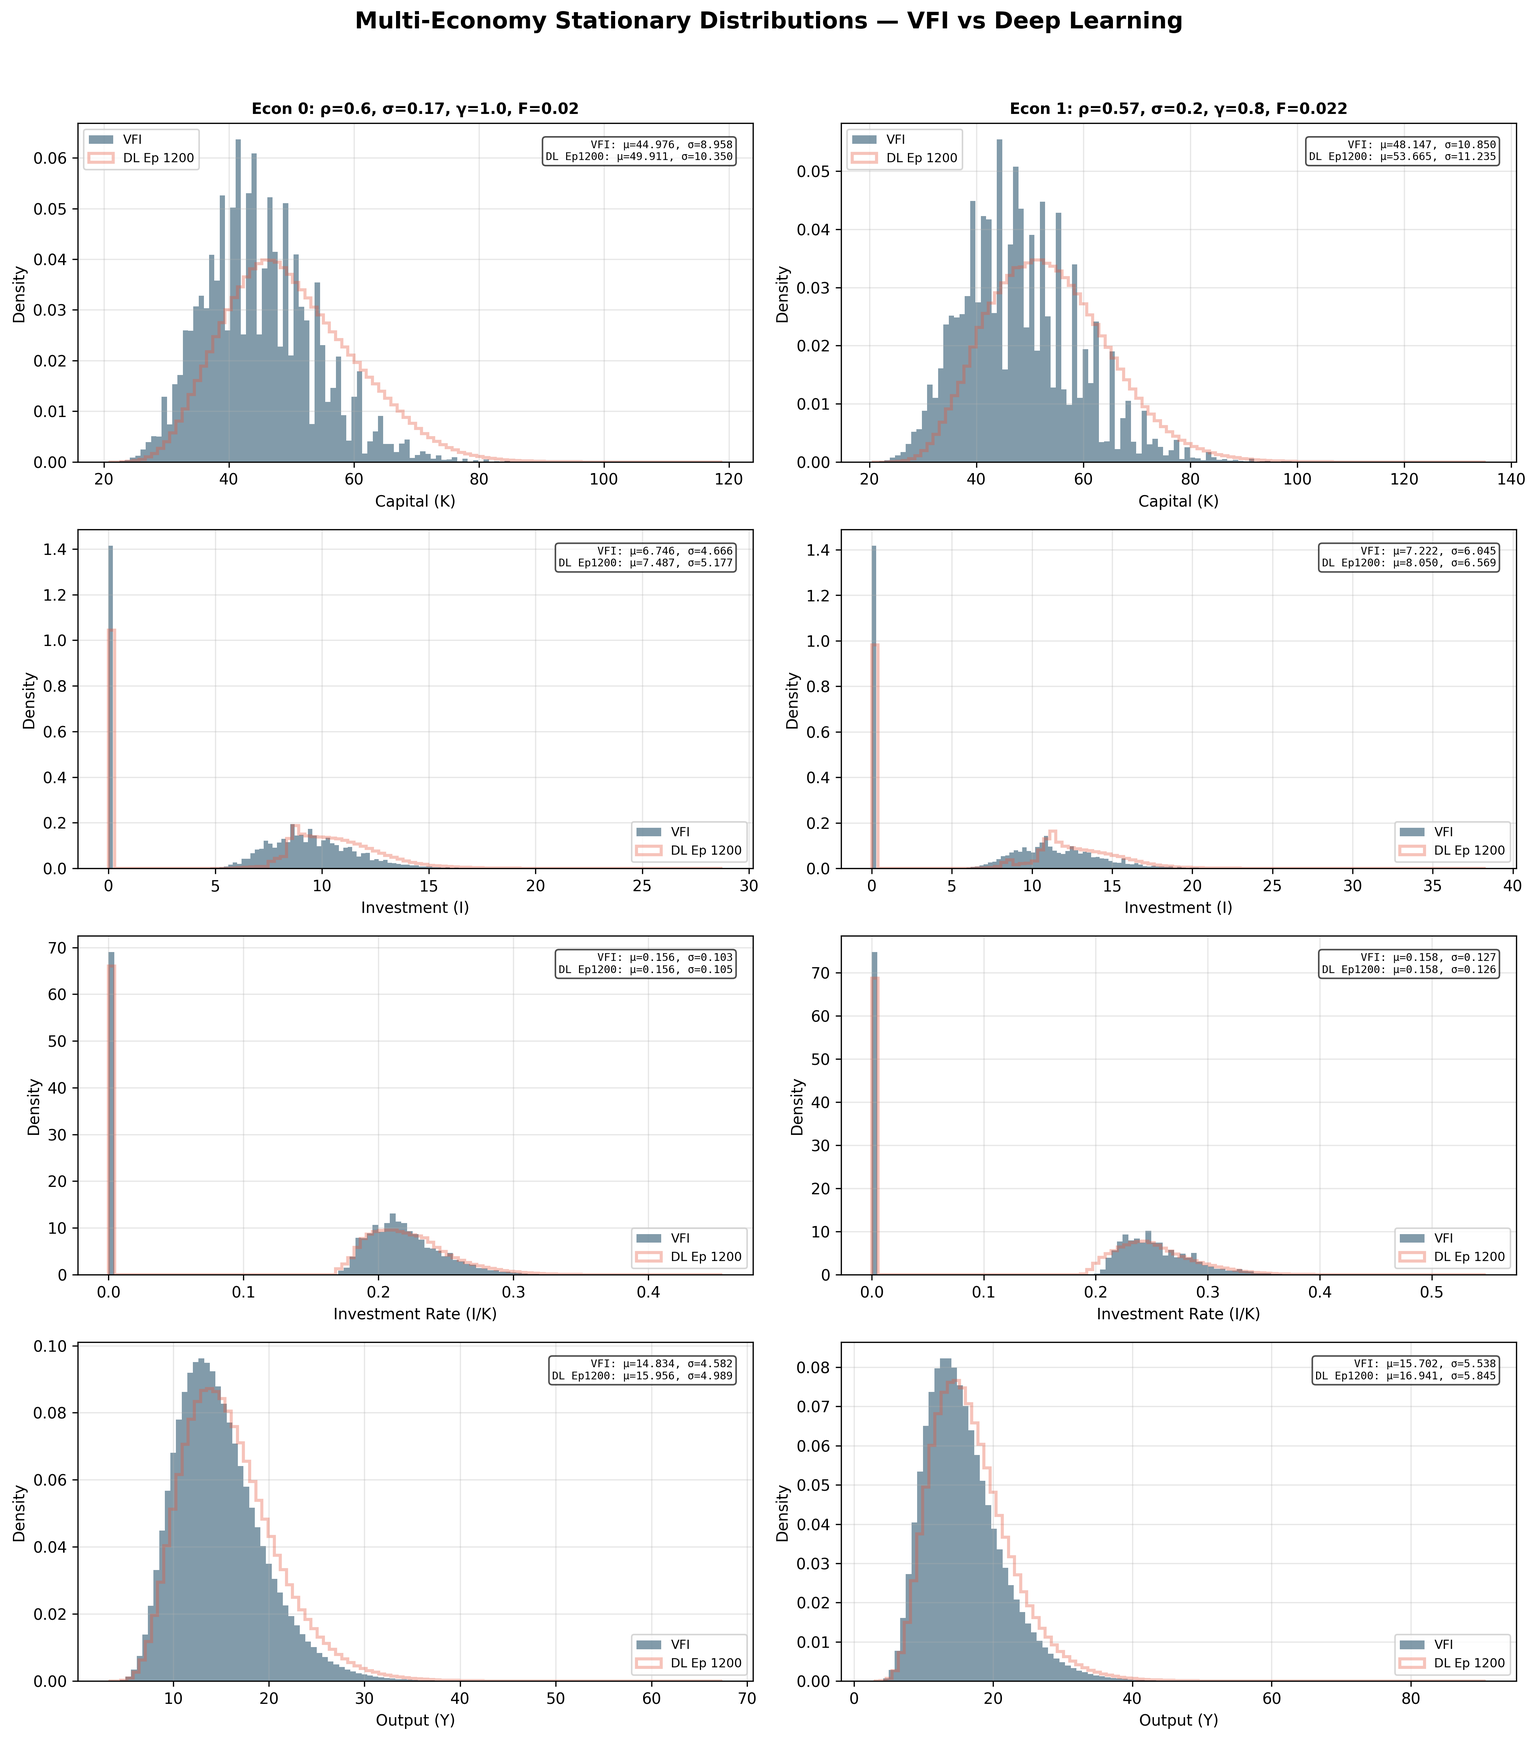
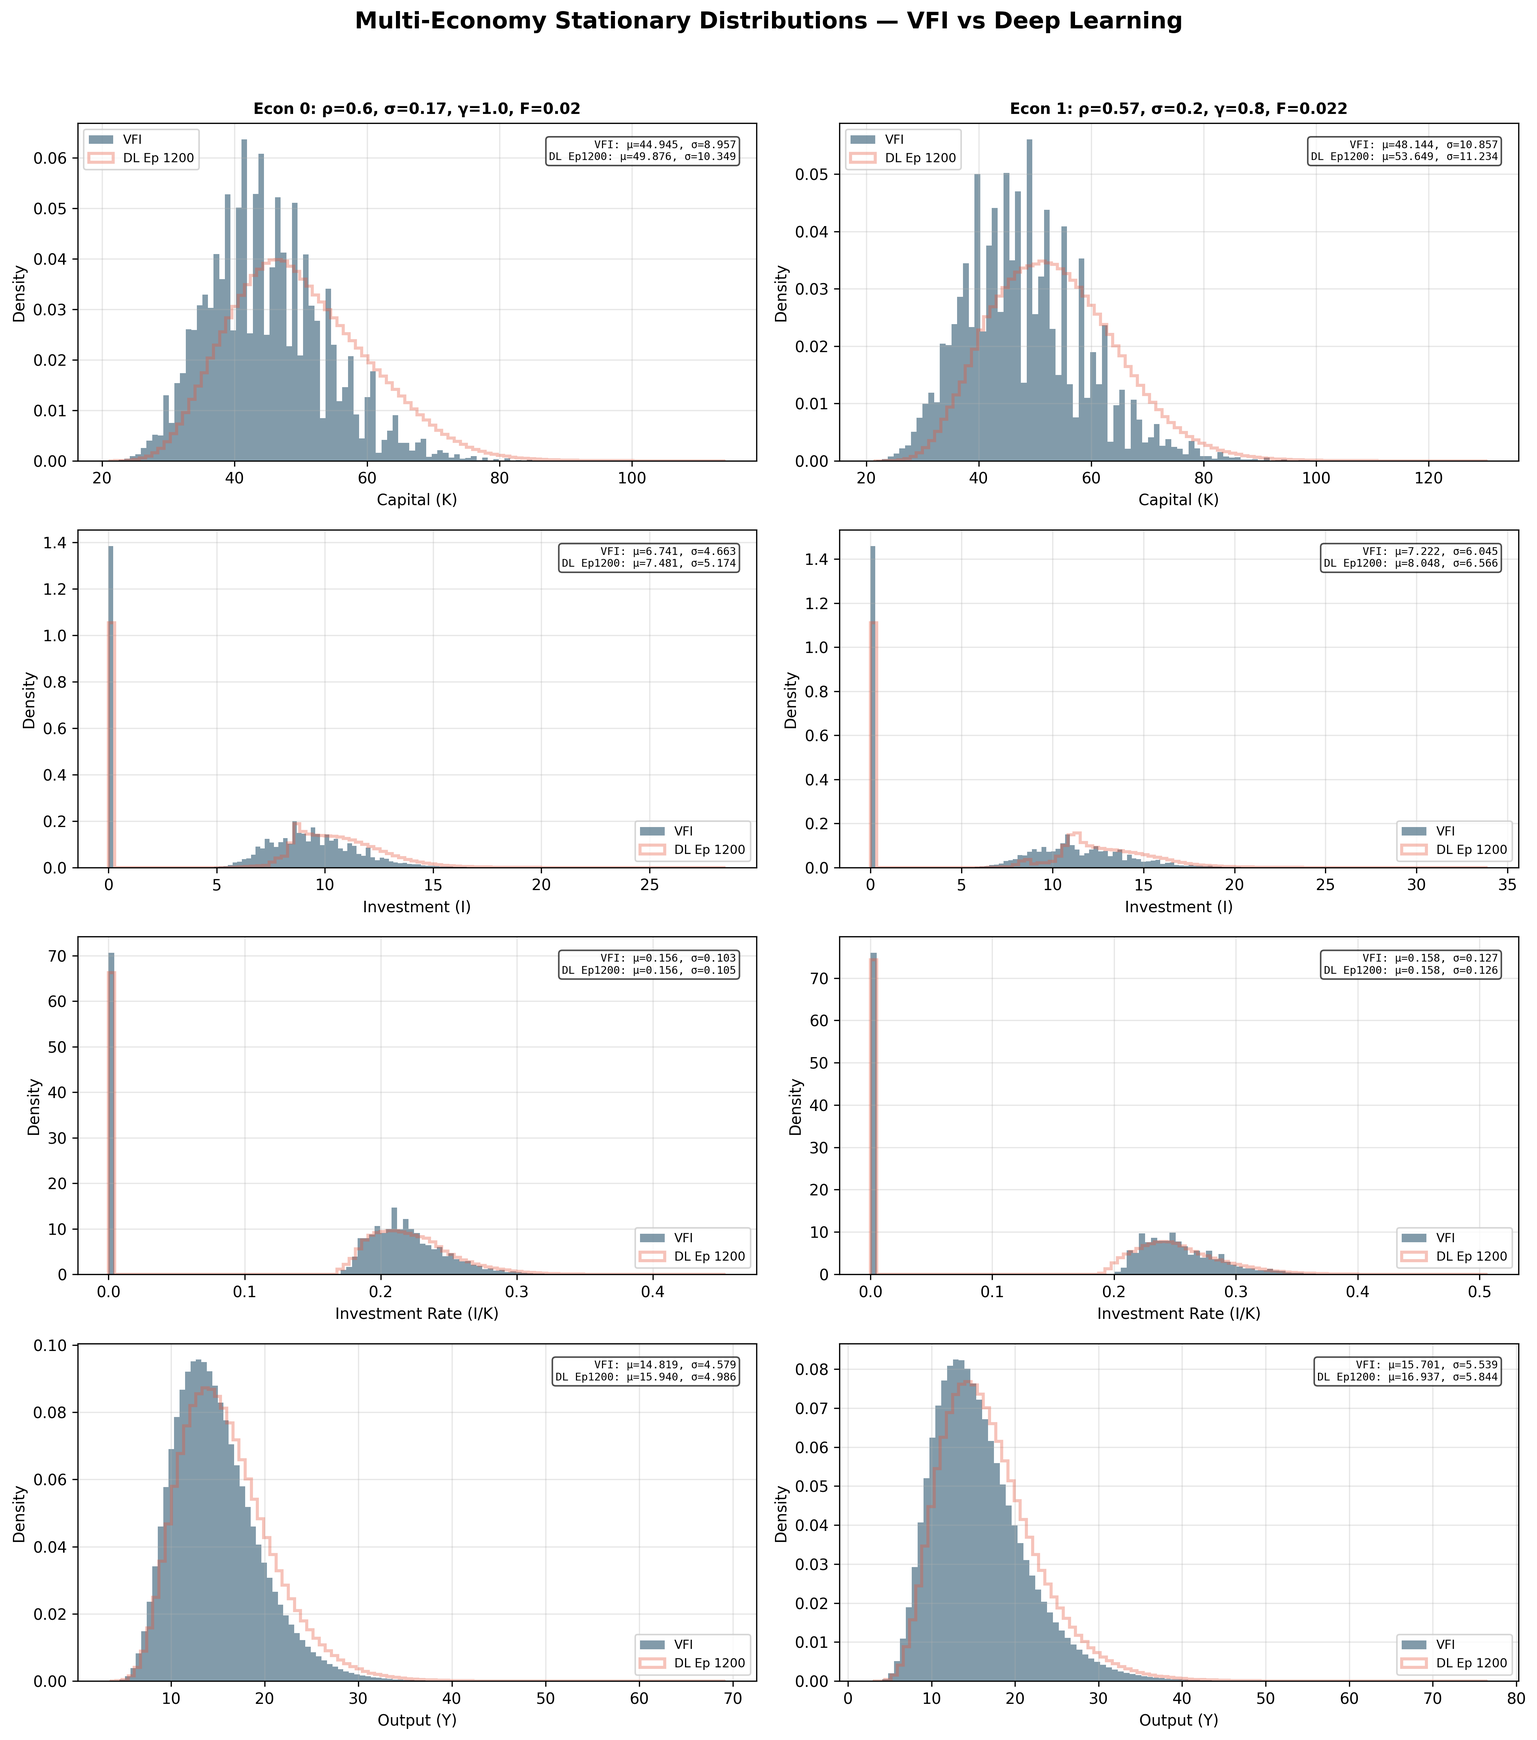
modify

diff --git a/src/econ_models/dl_dist/risky_final.py b/src/econ_models/dl_dist/risky_final.py
@@ -249,8 +249,8 @@ class RiskyModelDL_FINAL:
         self.target_default_policy_net.set_weights(
             self.default_policy_net.get_weights()
         )
-        # self.capital_policy_net.load_weights(str(weight_paths["capital"]))
-        # self.debt_policy_net.load_weights(str(weight_paths["debt"]))
+        self.capital_policy_net.load_weights(str(weight_paths["capital"]))
+        self.debt_policy_net.load_weights(str(weight_paths["debt"]))
 
         print(f"[pretrained] Loaded from {ckpt_dir} (epoch {epoch}), targets synced.")
 
@@ -301,28 +301,33 @@ class RiskyModelDL_FINAL:
 
         # --- Epoch-scheduled annealing parameters ---
         # Each schedule is a tuple: (w_start, w_end, epoch_start, epoch_end)
-        def _sched(base_name: str, default_val: float):
+        def _sched(w_start_attr, w_end_attr, ep_start_attr, ep_end_attr, w_default):
             """Read annealing schedule from config with defaults."""
-            w_s = getattr(self.config, f"{base_name}_weight_start", None)
-            w_e = getattr(self.config, f"{base_name}_weight_end", None)
+            w_s = getattr(self.config, w_start_attr, None)
+            w_e = getattr(self.config, w_end_attr, None)
             return (
-                w_s if w_s is not None else default_val,
-                w_e if w_e is not None else default_val,
-                getattr(self.config, f"{base_name}_start_epoch", None) or 0,
-                getattr(self.config, f"{base_name}_end_epoch", None) or 1,
+                w_s if w_s is not None else w_default,
+                w_e if w_e is not None else w_default,
+                getattr(self.config, ep_start_attr, None) or 0,
+                getattr(self.config, ep_end_attr, None) or 1,
             )
 
-        _eq_fb_w = (
-            self.config.equity_fb_weight
-            if self.config.equity_fb_weight is not None
-            else 1.0
-        )
-
-        self._sched_eq_fb = _sched('equity_fb', _eq_fb_w)
-        self._sched_cont_leak = _sched('continuous_leak', 1.0)
-        self._sched_ent_cap = _sched('entropy_capital', 0.0)
-        self._sched_ent_debt = _sched('entropy_debt', 0.0)
-        self._sched_ent_def = _sched('entropy_default', 0.0)
+        _eq_fb_w = self.config.equity_fb_weight if self.config.equity_fb_weight is not None else 1.0
+        self._sched_eq_fb = _sched(
+            'equity_fb_weight_start', 'equity_fb_weight_end',
+            'equity_fb_start_epoch', 'equity_fb_end_epoch', _eq_fb_w)
+        self._sched_cont_leak = _sched(
+            'continuous_leak_weight_start', 'continuous_leak_weight_end',
+            'continuous_leak_start_epoch', 'continuous_leak_end_epoch', 1.0)
+        self._sched_ent_cap = _sched(
+            'entropy_capital_weight_start', 'entropy_capital_weight_end',
+            'entropy_capital_start_epoch', 'entropy_capital_end_epoch', 0.0)
+        self._sched_ent_debt = _sched(
+            'entropy_debt_weight_start', 'entropy_debt_weight_end',
+            'entropy_debt_start_epoch', 'entropy_debt_end_epoch', 0.0)
+        self._sched_ent_def = _sched(
+            'entropy_default_weight_start', 'entropy_default_weight_end',
+            'entropy_default_start_epoch', 'entropy_default_end_epoch', 0.0)
 
         # tf.Variables so XLA-compiled _train_step_impl sees updates each epoch
         self.equity_fb_weight = tf.Variable(
@@ -541,19 +546,27 @@ class RiskyModelDL_FINAL:
             decay: Averaging coefficient in ``[0, 1]``.  Higher values
                 retain more of the existing target network.
         """
-        pairs = [
-            (self.target_value_net, self.value_net),
-            (self.target_continuous_net, self.continuous_net),
-            (self.target_default_policy_net, self.default_policy_net),
-        ]
-        for target_net, source_net in pairs:
-            for target_var, source_var in zip(
-                target_net.trainable_variables,
-                source_net.trainable_variables,
-            ):
-                target_var.assign(
-                    decay * target_var + (1.0 - decay) * source_var
-                )
+        for target_var, source_var in zip(
+            self.target_value_net.trainable_variables,
+            self.value_net.trainable_variables,
+        ):
+            target_var.assign(
+                decay * target_var + (1.0 - decay) * source_var
+            )
+        for target_var, source_var in zip(
+            self.target_continuous_net.trainable_variables,
+            self.continuous_net.trainable_variables,
+        ):
+            target_var.assign(
+                decay * target_var + (1.0 - decay) * source_var
+            )
+        for target_var, source_var in zip(
+            self.target_default_policy_net.trainable_variables,
+            self.default_policy_net.trainable_variables,
+        ):
+            target_var.assign(
+                decay * target_var + (1.0 - decay) * source_var
+            )
 
     def _build_summary_writer(self) -> None:
         """Create TensorBoard summary writer.
@@ -806,55 +819,6 @@ class RiskyModelDL_FINAL:
     # Dividend Computation
     # =========================================================================
 
-    def _compute_dividend_common(
-        self,
-        k: tf.Tensor,
-        b: tf.Tensor,
-        z: tf.Tensor,
-        b_prime: tf.Tensor,
-        q: tf.Tensor,
-        equity_issuance: tf.Tensor,
-        issuance_gate_prob: tf.Tensor,
-        eta0: tf.Tensor,
-        eta1: tf.Tensor,
-        investment: tf.Tensor = None,
-        adj_cost: tf.Tensor = None,
-    ) -> Tuple[tf.Tensor, tf.Tensor]:
-        """Compute dividend and raw payout using shared logic.
-
-        Args:
-            k: Current capital.
-            b: Current debt.
-            z: Current productivity.
-            b_prime: Next period debt.
-            q: Bond price.
-            equity_issuance: Effective equity issuance.
-            issuance_gate_prob: Gate probability.
-            eta0: Issuance cost parameter.
-            eta1: Issuance cost parameter.
-            investment: Investment amount (optional, defaults to 0).
-            adj_cost: Adjustment cost (optional, defaults to 0).
-
-        Returns:
-            Tuple of (dividend, payout).
-        """
-        if investment is None:
-            investment = tf.zeros_like(k)
-        if adj_cost is None:
-            adj_cost = tf.zeros_like(k)
-
-        revenue = self.one_minus_tax * ProductionFunctions.cobb_douglas(
-            k, z, self.params
-        )
-        debt_inflow, tax_shield = DebtFlowCalculator.calculate(
-            b_prime, q, self.params
-        )
-
-        payout = revenue + debt_inflow + tax_shield - adj_cost - investment - b
-        issuance_cost = issuance_gate_prob * (eta0 + eta1 * equity_issuance)
-        dividend = payout - issuance_cost
-        return dividend, payout
-
     def _compute_dividend(
         self,
         k: tf.Tensor,
@@ -872,33 +836,38 @@ class RiskyModelDL_FINAL:
     ) -> Tuple[tf.Tensor, tf.Tensor]:
         """Compute dividend (cash flow) for the risky model (invest branch).
 
+        Issuance cost uses the learned gate probability instead of the
+        hard indicator: ``gate_prob * (eta0 + eta1 * e)``.
+
         Args:
-            k: Current capital.
-            b: Current debt.
-            z: Productivity shock.
-            k_prime: Next period capital.
-            b_prime: Next period debt.
-            q: Bond price.
             equity_issuance: Effective equity issuance (raw * gate_prob).
             issuance_gate_prob: Issuance gate probability ∈ [0, 1].
-            convex: Per-sample adjustment cost parameter.
-            fixed: Per-sample adjustment cost parameter.
-            eta0: Per-sample issuance cost parameter.
-            eta1: Per-sample issuance cost parameter.
+            convex, fixed: Per-sample adjustment cost parameters.
+            eta0, eta1: Per-sample issuance cost parameters.
 
         Returns:
-            Tuple of (dividend, payout).
+            (dividend, payout) — *payout* is the raw operating payout
+            **before** equity issuance and its cost.  Both shape ``(batch, 1)``.
         """
-        investment = ProductionFunctions.calculate_investment(
-            k, k_prime, self.params
-        )
+        # Production: (1-tau) * Z * K^theta
+        revenue = self.one_minus_tax * ProductionFunctions.cobb_douglas(k, z, self.params)
+
+        # Investment: I = K' - (1-delta)*K
+        investment = ProductionFunctions.calculate_investment(k, k_prime, self.params)
+
+        # Adjustment cost (dist version: takes convex/fixed as tensors)
         adj_cost, _ = AdjustmentCostCalculator.calculate_dist(
             investment, k, convex, fixed,
         )
-        return self._compute_dividend_common(
-            k, b, z, b_prime, q, equity_issuance, issuance_gate_prob,
-            eta0, eta1, investment, adj_cost
-        )
+
+        # Debt flow
+        debt_inflow, tax_shield = DebtFlowCalculator.calculate(b_prime, q, self.params)
+
+        # Raw payout before equity issuance
+        payout = revenue + debt_inflow + tax_shield - adj_cost - investment - b
+        issuance_cost = issuance_gate_prob * (eta0 + eta1 * equity_issuance)
+        dividend = payout - issuance_cost
+        return dividend, payout
 
     def _compute_dividend_no_invest(
         self,
@@ -912,54 +881,36 @@ class RiskyModelDL_FINAL:
         eta0: tf.Tensor,
         eta1: tf.Tensor,
     ) -> Tuple[tf.Tensor, tf.Tensor]:
-        """Compute dividend when NOT investing.
+        """Compute dividend when NOT investing (no adjustment cost, no investment).
+        k' = (1-delta)*k, investment = 0.
+
+        Issuance cost uses the learned gate probability instead of the
+        hard indicator: ``gate_prob * (eta0 + eta1 * e)``.
 
         Args:
-           k: Current capital.
-           b: Current debt.
-           z: Productivity shock.
-           b_prime: Next period debt.
-           q: Bond price.
-           equity_issuance: Effective equity issuance.
-           issuance_gate_prob: Issuance gate probability.
-           eta0: Issuance cost parameter.
-           eta1: Issuance cost parameter.
+            equity_issuance: Effective equity issuance (raw * gate_prob).
+            issuance_gate_prob: Issuance gate probability ∈ [0, 1].
+            eta0, eta1: Per-sample issuance cost parameters.
 
         Returns:
-            Tuple of (dividend, payout).
+            (dividend, payout) — *payout* is the raw operating payout
+            **before** equity issuance and its cost.  Both shape ``(batch, 1)``.
         """
-        return self._compute_dividend_common(
-            k, b, z, b_prime, q, equity_issuance, issuance_gate_prob,
-            eta0, eta1
-        )
+        # Production: (1-tau) * Z * K^theta
+        revenue = self.one_minus_tax * ProductionFunctions.cobb_douglas(k, z, self.params)
+
+        # Debt flow
+        debt_inflow, tax_shield = DebtFlowCalculator.calculate(b_prime, q, self.params)
+
+        # Raw payout (no investment, no adjustment cost)
+        payout = revenue + debt_inflow + tax_shield - b
+        issuance_cost = issuance_gate_prob * (eta0 + eta1 * equity_issuance)
+        dividend = payout - issuance_cost
+        return dividend, payout
 
     # =========================================================================
     # Training Step
     # =========================================================================
-
-
-    def _compute_equity_issuance_outputs(
-        self,
-        network: tf.keras.Model,
-        inputs: tf.Tensor,
-        training: bool = False,
-    ) -> Tuple[tf.Tensor, tf.Tensor]:
-        """Compute equity issuance values and gate probabilities.
-
-        Args:
-            network: Equity issuance network model.
-            inputs: Network inputs.
-            training: Training flag.
-
-        Returns:
-            Tuple of (equity_issuance, issuance_gate_prob).
-        """
-        logits = network(inputs, training=training)
-        equity_issuance = tf.nn.relu(logits)
-        gate_soft = tf.math.sigmoid(logits)
-        gate_hard = tf.cast(gate_soft > self.half, TENSORFLOW_DTYPE)
-        gate_prob = gate_soft + tf.stop_gradient(gate_hard - gate_soft)
-        return equity_issuance, gate_prob
 
     def _train_step_impl(
         self,
@@ -1025,16 +976,17 @@ class RiskyModelDL_FINAL:
         )
 
         # Equity issuance for label computation (frozen, per-path, STE gate)
-        equity_issuance_inf_invest, issuance_gate_prob_inf_invest = (
-            self._compute_equity_issuance_outputs(
-                self.equity_issuance_net_invest, inputs, training=False
-            )
-        )
-        equity_issuance_inf_noinvest, issuance_gate_prob_inf_noinvest = (
-            self._compute_equity_issuance_outputs(
-                self.equity_issuance_net_noinvest, inputs, training=False
-            )
-        )
+        issuance_logit_inf_invest = self.equity_issuance_net_invest(inputs, training=False)
+        equity_issuance_inf_invest = tf.nn.relu(issuance_logit_inf_invest)
+        issuance_gate_soft_inf_invest = tf.math.sigmoid(issuance_logit_inf_invest)
+        issuance_gate_hard_inf_invest = tf.cast(issuance_gate_soft_inf_invest > self.half, TENSORFLOW_DTYPE)
+        issuance_gate_prob_inf_invest = issuance_gate_soft_inf_invest + tf.stop_gradient(issuance_gate_hard_inf_invest - issuance_gate_soft_inf_invest)
+
+        issuance_logit_inf_noinvest = self.equity_issuance_net_noinvest(inputs, training=False)
+        equity_issuance_inf_noinvest = tf.nn.relu(issuance_logit_inf_noinvest)
+        issuance_gate_soft_inf_noinvest = tf.math.sigmoid(issuance_logit_inf_noinvest)
+        issuance_gate_hard_inf_noinvest = tf.cast(issuance_gate_soft_inf_noinvest > self.half, TENSORFLOW_DTYPE)
+        issuance_gate_prob_inf_noinvest = issuance_gate_soft_inf_noinvest + tf.stop_gradient(issuance_gate_hard_inf_noinvest - issuance_gate_soft_inf_noinvest)
 
         # Bond prices (expensive MC — computed ONCE, shared debt)
         q_invest = self.estimate_bond_price(
@@ -1141,17 +1093,19 @@ class RiskyModelDL_FINAL:
             b_sigmoid = self.debt_policy_net(inputs, training=True)
             b_prime = self.normalizer_states.denormalize_debt(b_sigmoid)
 
-            # Equity issuance
-            equity_issuance_invest, issuance_gate_prob_invest = (
-                self._compute_equity_issuance_outputs(
-                    self.equity_issuance_net_invest, inputs, training=True
-                )
-            )
-            equity_issuance_noinvest, issuance_gate_prob_noinvest = (
-                self._compute_equity_issuance_outputs(
-                    self.equity_issuance_net_noinvest, inputs, training=True
-                )
-            )
+            # Equity issuance (invest path, live, gated, STE)
+            issuance_logit_invest = self.equity_issuance_net_invest(inputs, training=True)
+            equity_issuance_invest = tf.nn.relu(issuance_logit_invest)
+            issuance_gate_soft_invest = tf.math.sigmoid(issuance_logit_invest)
+            issuance_gate_hard_invest = tf.cast(issuance_gate_soft_invest > self.half, TENSORFLOW_DTYPE)
+            issuance_gate_prob_invest = issuance_gate_soft_invest + tf.stop_gradient(issuance_gate_hard_invest - issuance_gate_soft_invest)
+
+            # Equity issuance (no-invest path, live, gated, STE)
+            issuance_logit_noinvest = self.equity_issuance_net_noinvest(inputs, training=True)
+            equity_issuance_noinvest = tf.nn.relu(issuance_logit_noinvest)
+            issuance_gate_soft_noinvest = tf.math.sigmoid(issuance_logit_noinvest)
+            issuance_gate_hard_noinvest = tf.cast(issuance_gate_soft_noinvest > self.half, TENSORFLOW_DTYPE)
+            issuance_gate_prob_noinvest = issuance_gate_soft_noinvest + tf.stop_gradient(issuance_gate_hard_noinvest - issuance_gate_soft_noinvest)
 
             # --- Invest path value objective ---
             q_invest_live = self.estimate_bond_price(
@@ -1504,24 +1458,28 @@ class RiskyModelDL_FINAL:
             current_decay = self._get_annealed_decay(epoch)
 
             # Update scheduled weights for this epoch
-            scheduled_vars = [
-                ("continuous_leak_weight", self.continuous_leak_weight, self._sched_cont_leak),
-                ("equity_fb_weight", self.equity_fb_weight, self._sched_eq_fb),
-                ("entropy_capital_weight", self.entropy_capital_weight, self._sched_ent_cap),
-                ("entropy_debt_weight", self.entropy_debt_weight, self._sched_ent_debt),
-                ("entropy_default_weight", self.entropy_default_weight, self._sched_ent_def),
-            ]
+            current_leak = self._linear_anneal(epoch, self._sched_cont_leak)
+            current_eq_fb = self._linear_anneal(epoch, self._sched_eq_fb)
+            current_ent_cap = self._linear_anneal(epoch, self._sched_ent_cap)
+            current_ent_debt = self._linear_anneal(epoch, self._sched_ent_debt)
+            current_ent_def = self._linear_anneal(epoch, self._sched_ent_def)
 
-            current_log_updates = {}
-            for name, var, schedule in scheduled_vars:
-                val = self._linear_anneal(epoch, schedule)
-                var.assign(val)
-                current_log_updates[name] = val
+            self.continuous_leak_weight.assign(current_leak)
+            self.equity_fb_weight.assign(current_eq_fb)
+            self.entropy_capital_weight.assign(current_ent_cap)
+            self.entropy_debt_weight.assign(current_ent_debt)
+            self.entropy_default_weight.assign(current_ent_def)
 
             # Pass the current_decay to _run_epoch
             epoch_logs = self._run_epoch(data_iter, current_decay)
+
+            # Log the decay rate to track it
             epoch_logs['polyak_decay'] = current_decay
-            epoch_logs.update(current_log_updates)
+            epoch_logs['continuous_leak_weight'] = current_leak
+            epoch_logs['equity_fb_weight'] = current_eq_fb
+            epoch_logs['entropy_capital_weight'] = current_ent_cap
+            epoch_logs['entropy_debt_weight'] = current_ent_debt
+            epoch_logs['entropy_default_weight'] = current_ent_def
             epoch_time = time.time() - epoch_start_time
 
             # TensorBoard logging (every epoch)
